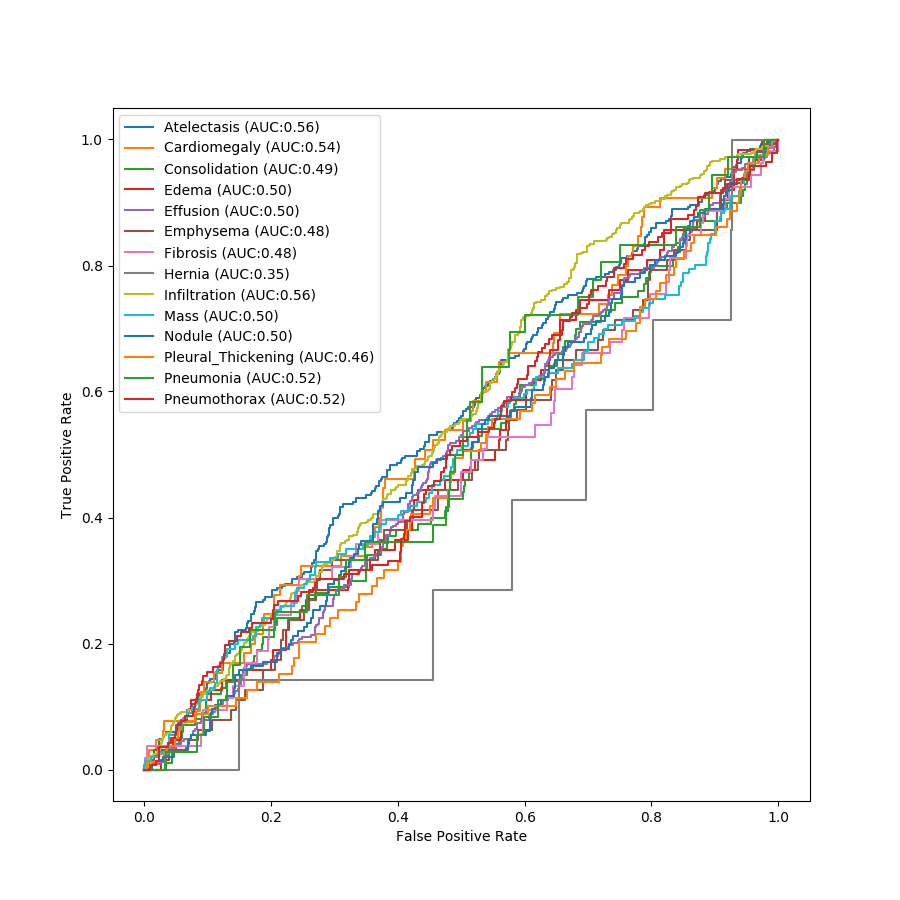
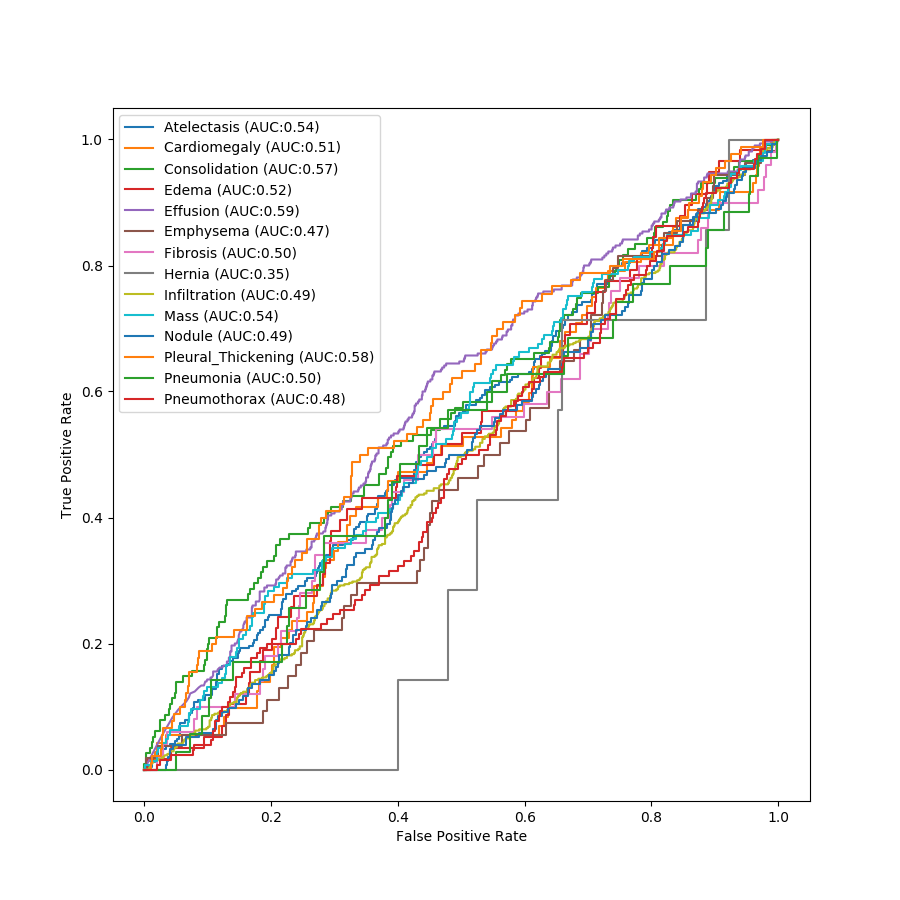
50_50

diff --git a/one_gpu_nih.py b/one_gpu_nih.py
@@ -115,7 +115,7 @@ model.add(Dropout(0.3))
 model.add(Dense(512))
 model.add(Dropout(0.3))
 model.add(Dense(len(all_labels), activation='sigmoid'))
-model.compile(loss='binary_crossentropy', optimizer='adam', metrics=['accuracy'])
+model.compile(loss='categorical_hinge', optimizer='adam', metrics=['accuracy'])
 model.summary()
 
 
